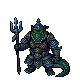
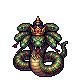
Own PixelLab art for Anantanak (Nagaphop boss) + card
Claude-Session: https://claude.ai/code/session_019fMb1LJfrrzNB55xtsXcpM

diff --git a/shared/data/monsters.js b/shared/data/monsters.js
@@ -282,7 +282,7 @@ Object.assign(MONSTERS, {
   ngueak_phi: realmMob(57, { nameTh: 'เงือกผี', nameEn: 'Ghost Mermaid', desc: 'เงือกสาวผมยาวที่ร้องเพลงล่อคนลงน้ำ ปาไข่มุกคำสาปจากไกล', d8: 'phi_phrai', tint: 0x7fffd4, behavior: 'ranged', projectile: 'film', attackRange: 150, attackCooldown: 1500, hpK: 0.9, drops: [{ item: 'pearl_ghost', chance: 0.35 }, { item: 'mp_m', chance: 0.3 }] }),
   pla_khiao: realmMob(62, { nameTh: 'ปลาผีเขี้ยวแก้ว', nameEn: 'Glassfang Fish', desc: 'ปลาผีเรืองแสงว่ายกลางอากาศใต้บาดาล ฝูงใหญ่ กัดเร็วมาก', d8: 'khamot', tint: 0x9fe8ff, behavior: 'flyer', speed: 85, attackCooldown: 850, hpK: 0.8, evaK: 8, drops: [{ item: 'naga_scale', chance: 0.35 }, { item: 'flask_mp8', chance: 0.004 }] }),
   tahan_nak: realmMob(68, { nameTh: 'ทหารนาคเกล็ดเงิน', nameEn: 'Silver-scale Naga Guard', elite: true, desc: 'ทหารองครักษ์ของพญานาค สวมเกราะเกล็ดเงิน ถือทวนสามง่าม', d8: 'saming', tint: 0x9fb8ff, scale: 1.05, hpK: 1.35, atkK: 1.1, drops: [{ item: 'naga_scale', chance: 0.5 }, { item: 'flask_hp9', chance: 0.003 }] }),
-  anantanak: realmMob(75, { nameTh: 'พญาอนันตนาคราช', nameEn: 'Ananta Nagaraja', boss: true, desc: 'ราชาแห่งนาคพิภพ เจ็ดเศียรเกล็ดมรกต ฟาดหางทีเดียวบาดาลสั่น (บอสเมืองบาดาล)', d8: 'chalawan', tint: 0x5dade2, scale: 2.05, aoe: { cd: 6000, r: 120, mult: 1.55, nameTh: 'เจ็ดเศียรพ่นพิษ' }, drops: [{ item: 'naga_gem', chance: 1 }, { item: 'cos_head_jade', chance: 0.08 }, { item: 'flask_hp9', chance: 0.25 }, { item: 'flask_mp9', chance: 0.2 }, { item: 'naga_statue', chance: 0.4 }] }),
+  anantanak: realmMob(75, { nameTh: 'พญาอนันตนาคราช', nameEn: 'Ananta Nagaraja', boss: true, desc: 'ราชาแห่งนาคพิภพ เจ็ดเศียรเกล็ดมรกต ฟาดหางทีเดียวบาดาลสั่น (บอสเมืองบาดาล)', d8: 'chalawan', tint: 0x5dade2, scale: 1.85, aoe: { cd: 6000, r: 120, mult: 1.55, nameTh: 'เจ็ดเศียรพ่นพิษ' }, drops: [{ item: 'naga_gem', chance: 1 }, { item: 'cos_head_jade', chance: 0.08 }, { item: 'flask_hp9', chance: 0.25 }, { item: 'flask_mp9', chance: 0.2 }, { item: 'naga_statue', chance: 0.4 }] }),
   // ===== นรกภูมิ Lv.75–99 =====
   niraiyaban: realmMob(78, { nameTh: 'นายนิรยบาล', nameEn: 'Hell Warden', desc: 'ผู้คุมนรกร่างยักษ์ ถือหอกเหล็กเผาไฟ ลากวิญญาณบาปไปลงกระทะทองแดง', d8: 'pret_asura', tint: 0xff6a4d, scale: 0.9, hpK: 1.2, speed: 48, drops: [{ item: 'hell_ember', chance: 0.4 }, { item: 'flask_hp10', chance: 0.003 }] }),
   pret_khem: realmMob(84, { nameTh: 'เปรตปากเข็ม', nameEn: 'Needle-mouth Preta', desc: 'เปรตตัวสูงเท่าต้นตาล ปากเท่ารูเข็ม หิวโหยชั่วกัลป์ ดูดพลังชีวิตคนเป็น', d8: 'pret', tint: 0xc39bd3, scale: 1.1, hpK: 1.05, drops: [{ item: 'hell_ember', chance: 0.4 }, { item: 'mp_m', chance: 0.3 }] }),
